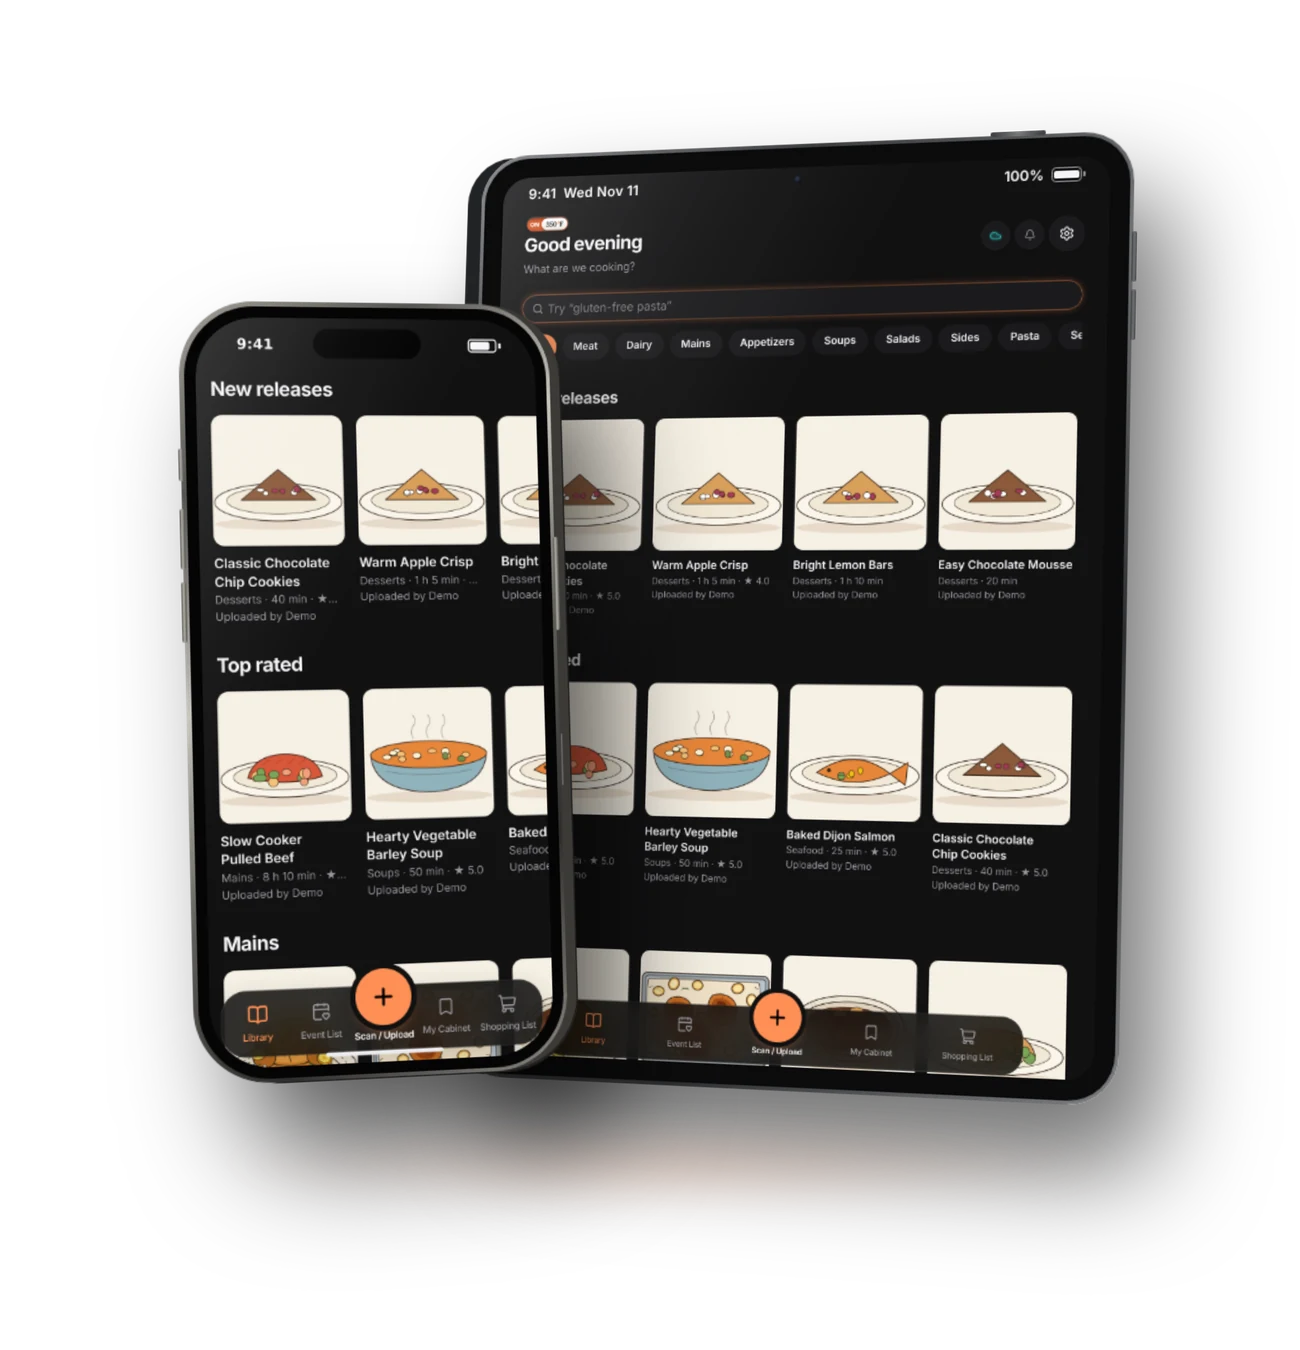
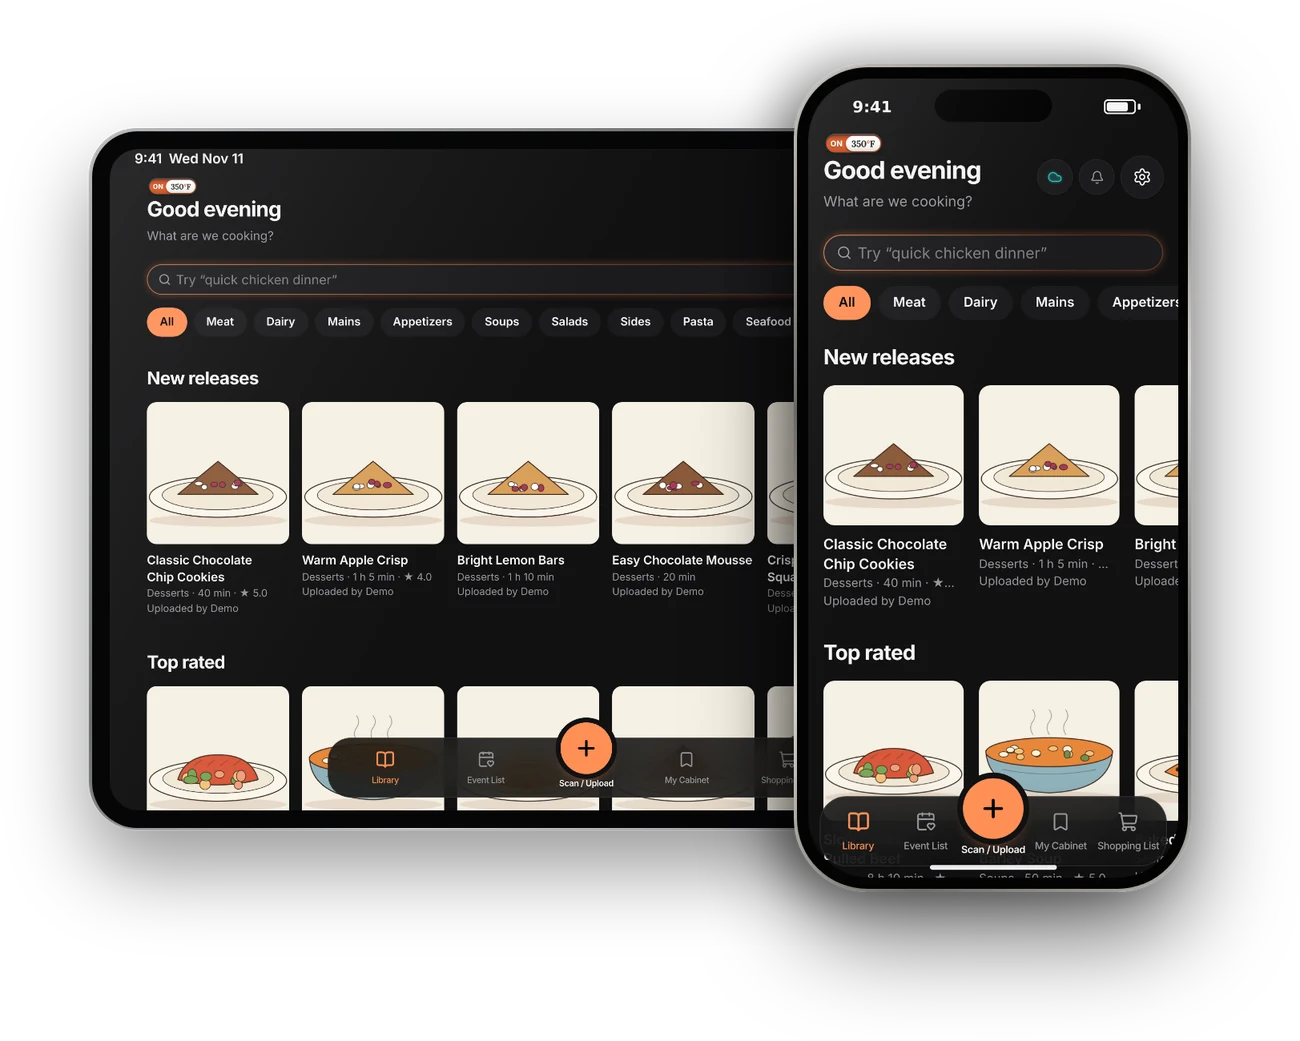
Website: iPad in landscape behind the phone, thin edges, the phone shows the top of the app (#112)
Claude-Session: https://claude.ai/code/session_01ADXpCTEnMXBBp4mHBc7Y2V

diff --git a/on350-landing/site/styles.css b/on350-landing/site/styles.css
@@ -76,12 +76,12 @@ p { margin: 0; }
 .hero-phone { display: flex; justify-content: center; }
 .phone { width: 320px; max-width: 100%; aspect-ratio: 390 / 844; border-radius: 44px; overflow: hidden; box-shadow: 0 0 0 8px #2a2a2d, 0 0 0 9px rgba(255, 255, 255, 0.08), 0 40px 90px rgba(0, 0, 0, 0.6), 0 0 120px rgba(255, 143, 85, 0.18); }
 .phone img { width: 100%; height: 100%; object-fit: cover; object-position: top; }
-.devices { display: block; flex: none; width: min(760px, 138%); margin: -90px -19% -90px -19%; }
-.devices img { display: block; width: 100%; height: auto; filter: drop-shadow(0 0 60px rgba(255, 143, 85, 0.10)); }
+.devices { display: block; flex: none; width: min(640px, 120%); margin: 0 0 0 -22%; }
+.devices img { display: block; width: 100%; height: auto; }
 @media (max-width: 900px) {
   .hero { grid-template-columns: minmax(0, 1fr); padding-top: 48px; }
   .phone { width: 270px; }
-  .devices { width: min(600px, 128%); margin: -50px -14% -60px; }
+  .devices { width: min(560px, 100%); margin: 8px auto 0; }
 }
 
 /* Steps */

diff --git a/on350-landing/site/index.html b/on350-landing/site/index.html
@@ -74,7 +74,7 @@
     <div class="hero-phone">
       <picture class="devices">
         <source srcset="/img/app-devices.webp" type="image/webp">
-        <img src="/img/app-devices.png" alt="On350 on a phone and an iPad: shelves of new, top-rated and main-course recipes, with the bottom bar for the library, events, scanning, the cabinet and the shopping list" width="1300" height="1350" fetchpriority="high">
+        <img src="/img/app-devices.png" alt="On350 on a phone and an iPad: shelves of new, top-rated and main-course recipes, with the bottom bar for the library, events, scanning, the cabinet and the shopping list" width="1300" height="1041" fetchpriority="high">
       </picture>
     </div>
   </section>
